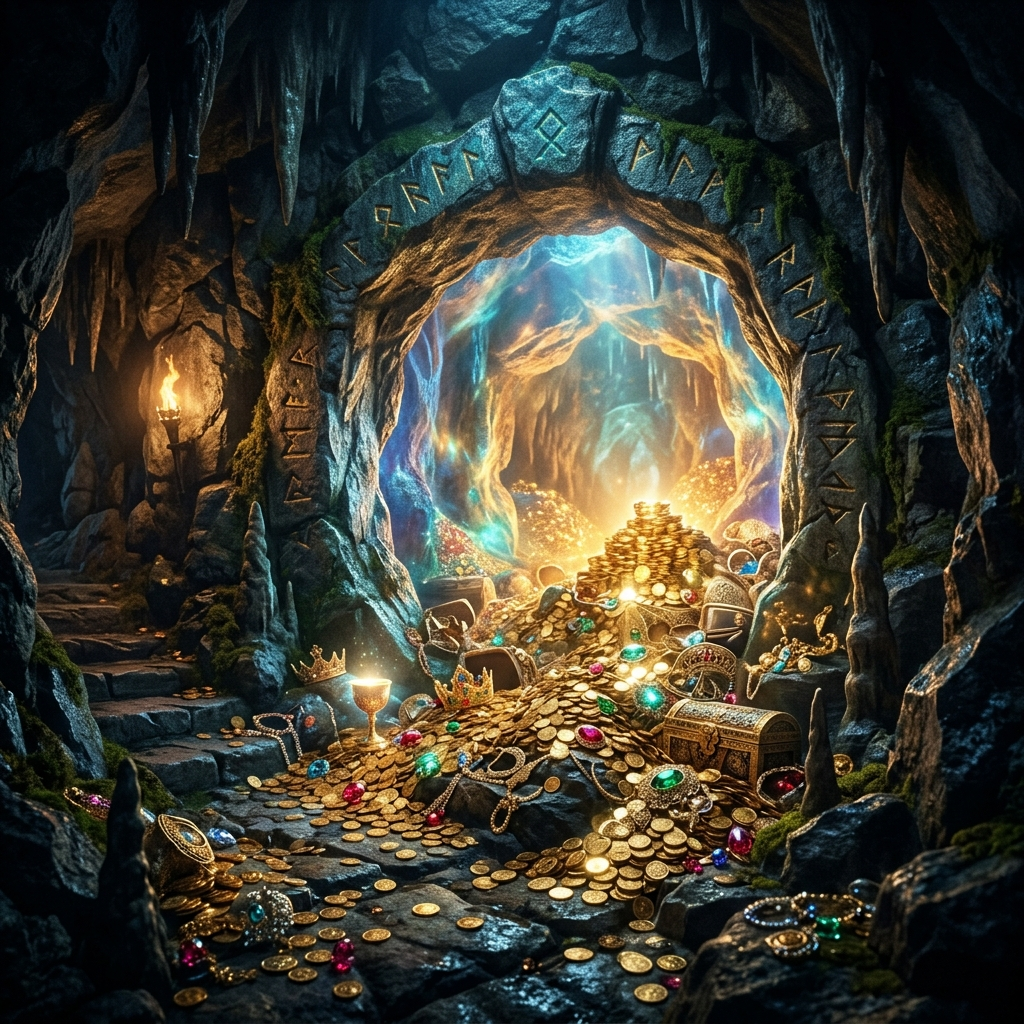
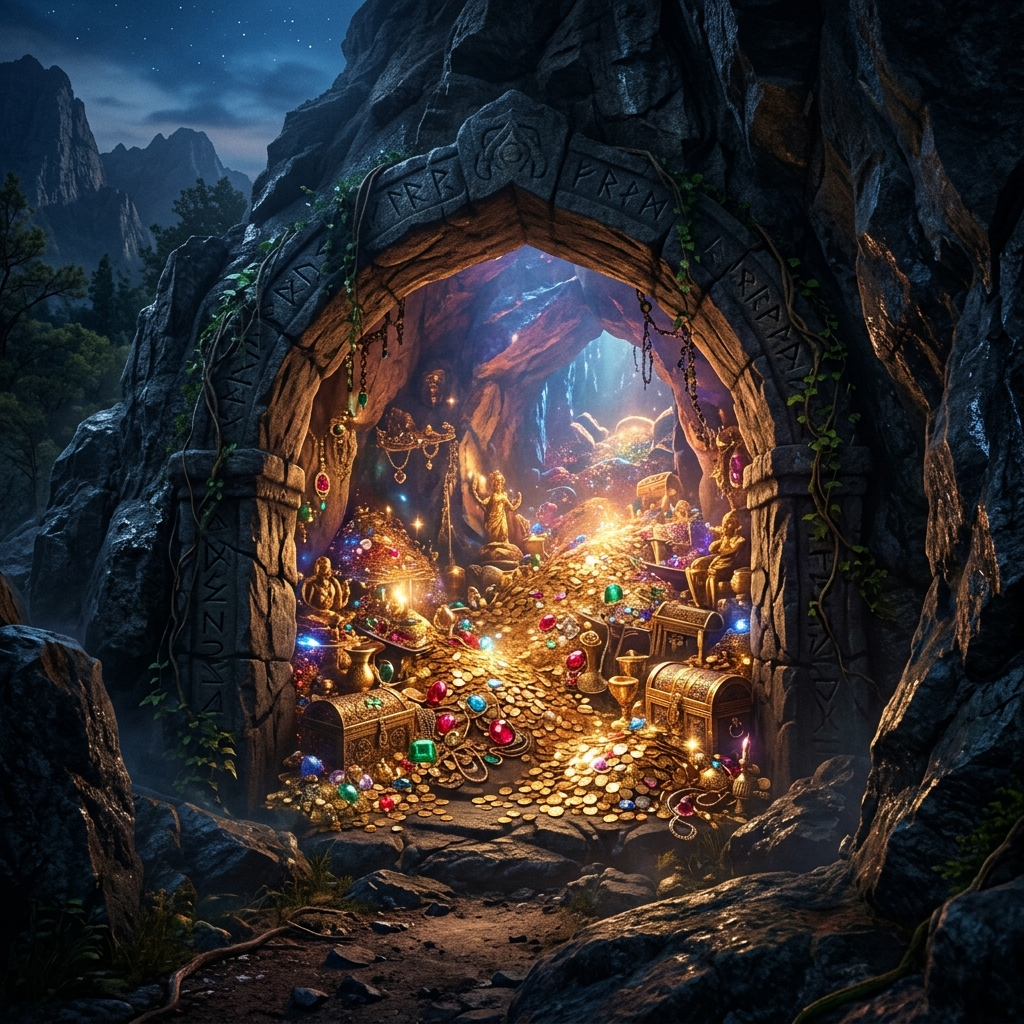
style: use 16:9 4K background and revert layout hack

diff --git a/src/pages/LoginPage.js b/src/pages/LoginPage.js
@@ -4,14 +4,12 @@ export async function renderLoginPage(container) {
   container.innerHTML = `
     <div style="
       position: fixed; inset: 0; 
+      background: url('./assets/alibaba_cave.png') center/cover no-repeat;
       display: flex; align-items: flex-end; justify-content: flex-end;
       padding: 5% 5%;
       z-index: 100;
       background-color: #050505;
-      overflow: hidden;
     ">
-      <div style="position: absolute; inset: -5%; background: url('./assets/alibaba_cave.png') center/cover no-repeat; filter: blur(40px) brightness(0.5); z-index: -2;"></div>
-      <div style="position: absolute; inset: 0; background: url('./assets/alibaba_cave.png') center/contain no-repeat; z-index: -1;"></div>
       <div class="card animate-fade-in-up" style="
         width: 100%; max-width: 440px; padding: 48px 40px; text-align: center;
         background: rgba(17, 24, 39, 0.75);
